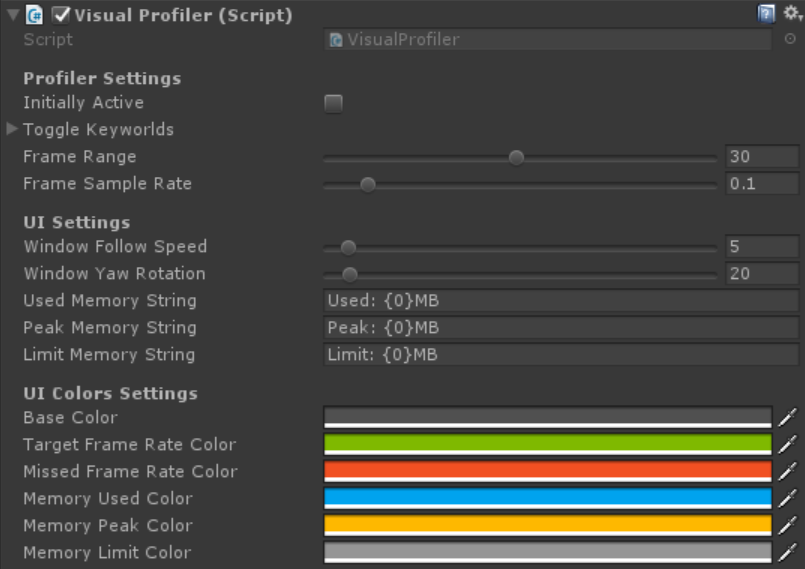
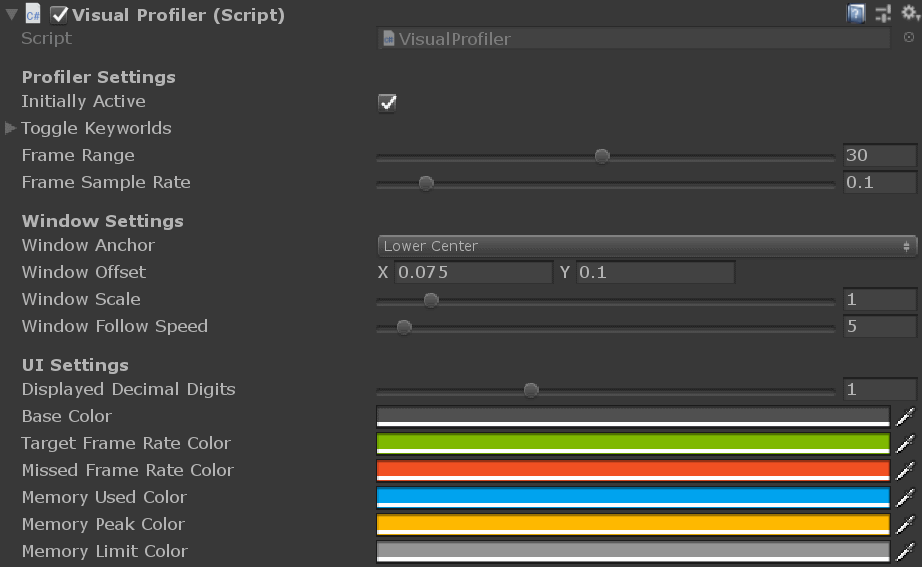
Adding tooltips and updating readme

diff --git a/VisualProfiler.cs b/VisualProfiler.cs
@@ -19,13 +19,13 @@ namespace Microsoft.MixedReality.Profiling
     /// your Unity scene. The profiler is initially enabled (toggle-able via the initiallyActive 
     /// property), but can be toggled via the enabled/disable voice commands keywords.
     ///
+    /// NOTE: For improved rendering performance you can optionally include the 
+    /// "Hidden/Instanced-Colored" shader in your project along with the VisualProfiler.
+    /// 
     /// IMPORTANT: Please make sure to add the microphone capability to your app if you plan 
     /// on using the enable/disable keywords, in Unity under Edit -> Project Settings -> 
     /// Player -> Settings for Windows Store -> Publishing Settings -> Capabilities or in your 
     /// Visual Studio Package.appxmanifest capabilities.
-    /// 
-    /// NOTE: For improved rendering performance you can optionally include the 
-    /// "Hidden/Instanced-Colored" shader in your project along with the VisualProfiler.
     /// 
     /// </summary>
     public class VisualProfiler : MonoBehaviour
@@ -40,39 +40,39 @@ namespace Microsoft.MixedReality.Profiling
         private static readonly string limitMemoryString = "Limit: ";
 
         [Header("Profiler Settings")]
-        [SerializeField]
+        [SerializeField, Tooltip("Should the profiler display automatically or wait for user activation via voice, etc.")]
         private bool initiallyActive = true;
-        [SerializeField]
+        [SerializeField, Tooltip("Voice commands to toggle the profiler on and off.")]
         private string[] toggleKeyworlds = new string[] { "Profiler", "Toggle Profiler", "Show Profiler", "Hide Profiler" };
-        [SerializeField, Range(1, 60)]
+        [SerializeField, Range(1, 60), Tooltip("How many frames to display as colored boxes indicating target or missed frames.")]
         private int frameRange = 30;
-        [SerializeField, Range(0.0f, 1.0f)]
+        [SerializeField, Range(0.0f, 1.0f), Tooltip("How often to update the displayed frame rate(s).")]
         private float frameSampleRate = 0.1f;
 
         [Header("Window Settings")]
-        [SerializeField]
+        [SerializeField, Tooltip("What part of the view port to anchor the window to.")]
         private TextAnchor windowAnchor = TextAnchor.LowerCenter;
-        [SerializeField]
+        [SerializeField, Tooltip("The offset from the window anchor position.")]
         private Vector2 windowOffset = new Vector2(0.075f, 0.1f);
-        [SerializeField, Range(0.5f, 5.0f)]
+        [SerializeField, Range(0.5f, 5.0f), Tooltip("Use to scale the window size up or down, can simulate a zooming effect.")]
         private float windowScale = 1.0f;
-        [SerializeField, Range(0.0f, 100.0f)]
+        [SerializeField, Range(0.0f, 100.0f), Tooltip("How quickly to interpolate the window towards its target position and rotation.")]
         private float windowFollowSpeed = 5.0f;
 
         [Header("UI Settings")]
-        [SerializeField, Range(0, 3)]
+        [SerializeField, Range(0, 3), Tooltip("How many decimal places to display on numeric strings.")]
         private int displayedDecimalDigits = 1;
-        [SerializeField]
+        [SerializeField, Tooltip("The color of the window backplate.")]
         private Color baseColor = new Color(80 / 256.0f, 80 / 256.0f, 80 / 256.0f, 1.0f);
-        [SerializeField]
+        [SerializeField, Tooltip("The color to display on frames which meet or exceed the target frame rate.")]
         private Color targetFrameRateColor = new Color(127 / 256.0f, 186 / 256.0f, 0 / 256.0f, 1.0f);
-        [SerializeField]
+        [SerializeField, Tooltip("The color to display on frames which fall below the target frame rate.")]
         private Color missedFrameRateColor = new Color(242 / 256.0f, 80 / 256.0f, 34 / 256.0f, 1.0f);
-        [SerializeField]
+        [SerializeField, Tooltip("The color to display for current memory usage values.")]
         private Color memoryUsedColor = new Color(0 / 256.0f, 164 / 256.0f, 239 / 256.0f, 1.0f);
-        [SerializeField]
+        [SerializeField, Tooltip("The color to display for peak (aka max) memory usage values.")]
         private Color memoryPeakColor = new Color(255 / 256.0f, 185 / 256.0f, 0 / 256.0f, 1.0f);
-        [SerializeField]
+        [SerializeField, Tooltip("The color to display for the platforms memory usage limit.")]
         private Color memoryLimitColor = new Color(150 / 256.0f, 150 / 256.0f, 150 / 256.0f, 1.0f);
 
         private GameObject window;

diff --git a/README.md b/README.md
@@ -8,7 +8,7 @@ Missed frames are displayed over time to visually find problem areas. Memory is 
 
 The Visual Profiler is targeted towards profiling 3D UWP Unity applications, and has been verified to work on the following platforms:
 
-- Microsoft HoloLens
+- Microsoft HoloLens & HoloLens 2
 - Microsoft Immersive headsets (IHMD)
 - Steam VR (HTC Vive / Oculus Rift)
 - OpenXR platforms 
@@ -17,6 +17,8 @@ The Visual Profiler is targeted towards profiling 3D UWP Unity applications, and
 Clone, or download, VisualProfiler.cs and place it anywhere within the Assets folder of your Unity project. 
 
 Next, add the VisualProfiler component to any gameobject in the Unity scene you wish to profile. The profiler is initially disabled (toggle-able via the initiallyActive property), but can be toggled via the enabled/disable voice command keywords.
+
+NOTE: For improved rendering performance you can optionally include the "Hidden/Instanced-Colored" shader in your project along with the VisualProfiler.
 
 IMPORTANT: Please make sure to add the microphone capability to your app if you plan on using the enable/disable keywords, in Unity under Edit -> Project Settings -> Player -> Settings for Windows Store -> Publishing Settings -> Capabilities or in your Visual Studio Package.appxmanifest capabilities.
 
